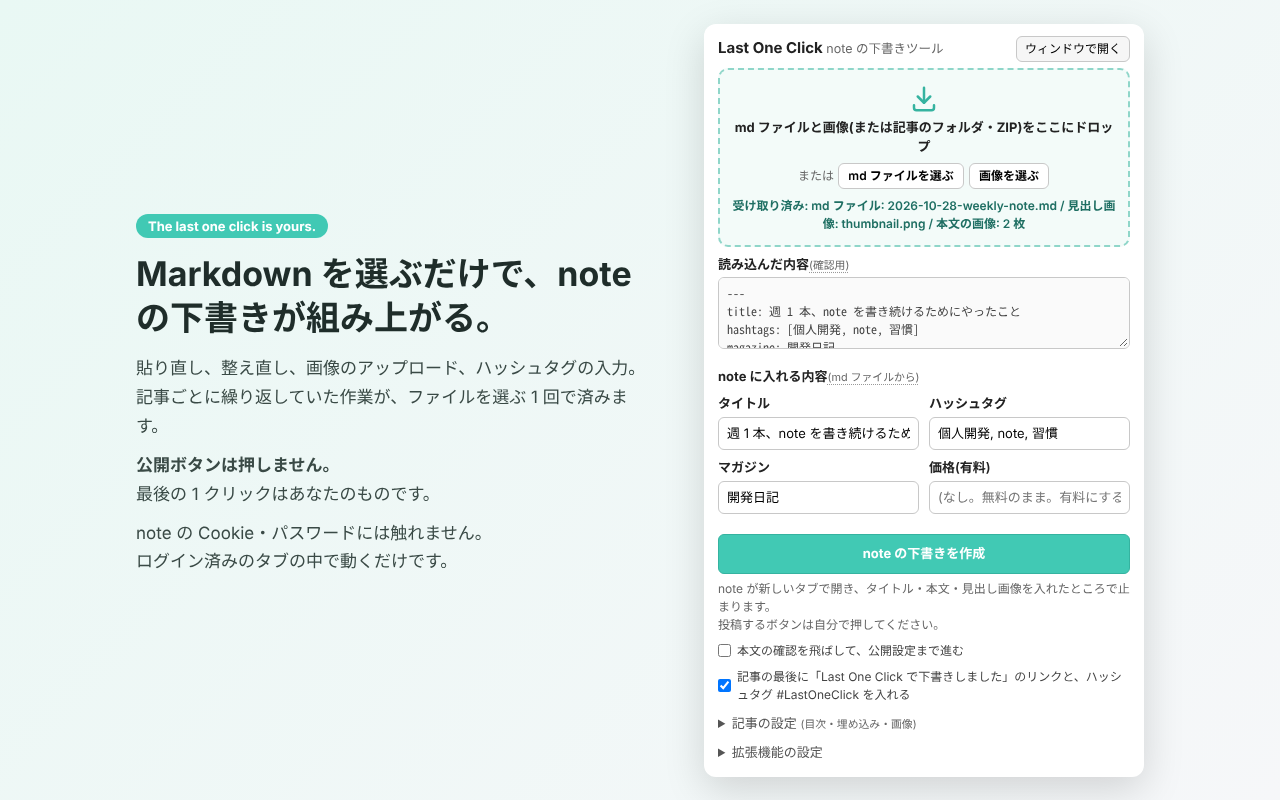
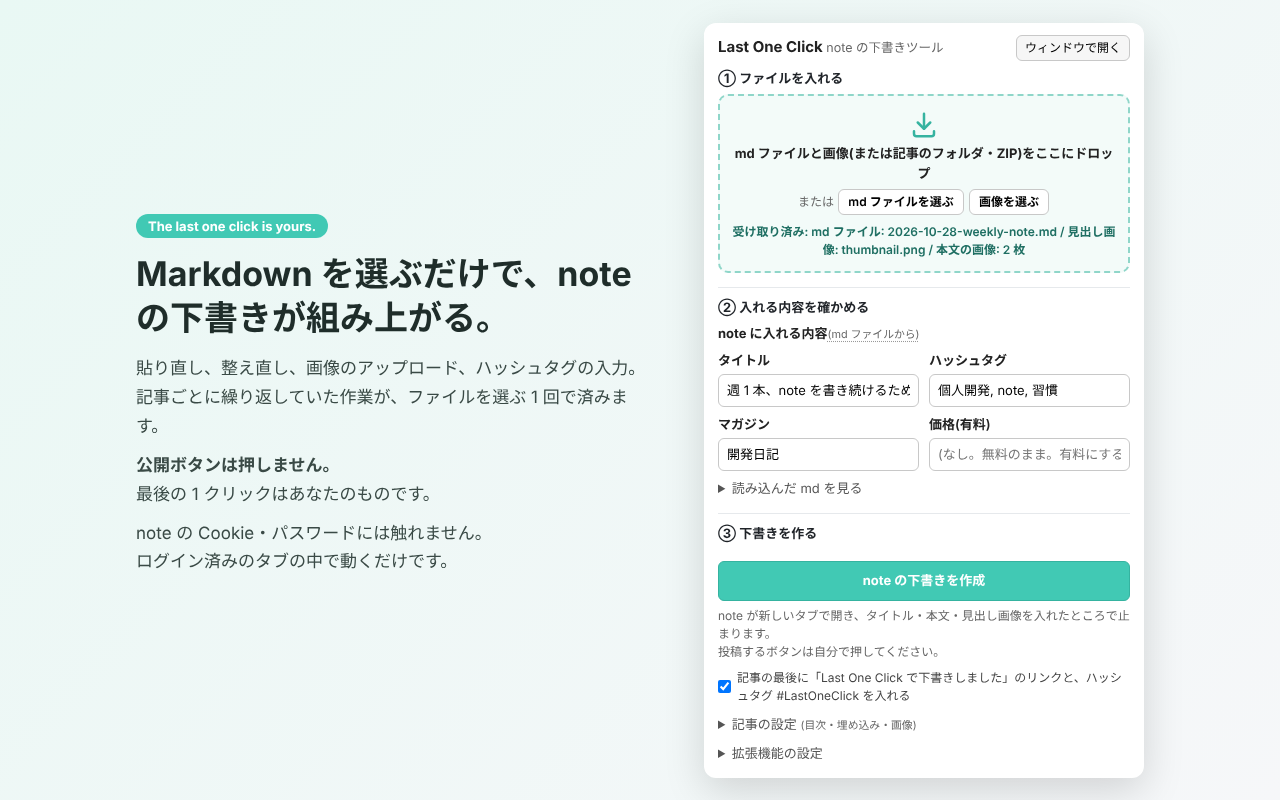
feat(popup): 手順の 3 つに分けて並べ直す(#140)
① ファイルを入れる ② 入れる内容を確かめる ③ 下書きを作る の見出しで分けた。
- GitHub から読み込む(上級者向け)は ① の中に置いた
- 読み込んだ内容(md の全文)は「読み込んだ md を見る」にたたんだ(上級者向けでは開いておく)
- 「本文の確認を飛ばして、公開設定まで進む」は「記事の設定」の中に移し、オンなら見出しの横に出す
- 「Last One Click で下書きしました」のチェックは、たたまずに外に出したまま(#53 の決まり)
機能・初期値・覚えている設定・要素の id は変えていない。ストアの画像を作り直した。

Claude-Session: https://claude.ai/code/session_013Cqe6jnYd5JrgB5Mzm7x5o

diff --git a/extension/src/popup.html b/extension/src/popup.html
@@ -17,6 +17,7 @@
     <button id="extra-site-enable" type="button" class="small">使えるようにする</button>
   </div>
   <p id="status-extra-site-offer" class="status" hidden></p>
+  <h2 class="step first">① ファイルを入れる</h2>
   <div id="dropzone" class="dropzone">
     <svg class="dz-icon" viewBox="0 0 24 24" fill="none" stroke="currentColor" stroke-width="2" stroke-linecap="round" stroke-linejoin="round" aria-hidden="true"><path d="M12 3v12"/><path d="m7 10 5 5 5-5"/><path d="M4 17v2a2 2 0 0 0 2 2h12a2 2 0 0 0 2-2v-2"/></svg>
     <p class="dz-title">md ファイルと画像(または記事のフォルダ・ZIP)をここにドロップ</p>
@@ -30,17 +31,6 @@
   <input id="markdown-file" type="file" accept=".md,.markdown,.txt,.zip,text/markdown,text/plain,application/zip" hidden>
   <input id="thumbnail" type="file" accept="image/*" hidden>
 
-  <div id="markdown-box" hidden>
-    <label for="markdown">読み込んだ内容<small id="markdown-note" class="hint-inline tip" title="確認用です。直すときは md ファイルか、note のエディタで直してください。">(確認用)</small></label>
-    <textarea id="markdown" readonly placeholder="---
-title: 記事タイトル
-hashtags: [AI, 個人開発]
-magazine: マガジン名
----
-
-## 本文はここから"></textarea>
-  </div>
-
   <div id="advanced-github" hidden>
     <details id="github-fold">
       <summary>GitHub から読み込む</summary>
@@ -52,6 +42,8 @@ magazine: マガジン名
     </details>
   </div>
 
+  <div id="step-check">
+  <h2 class="step">② 入れる内容を確かめる</h2>
   <div id="fields" hidden>
     <p class="fields-head">note に入れる内容<small class="hint-inline tip" title="md ファイルから読み取った値です。直したければここで直せます。空にすると「なし」になります。">(md ファイルから)</small></p>
     <div class="grid">
@@ -62,6 +54,22 @@ magazine: マガジン名
     </div>
   </div>
 
+  <div id="markdown-box" hidden>
+    <details id="markdown-fold">
+      <summary>読み込んだ md を見る</summary>
+      <label for="markdown">読み込んだ内容<small id="markdown-note" class="hint-inline tip" title="確認用です。直すときは md ファイルか、note のエディタで直してください。">(確認用)</small></label>
+    <textarea id="markdown" readonly placeholder="---
+title: 記事タイトル
+hashtags: [AI, 個人開発]
+magazine: マガジン名
+---
+
+## 本文はここから"></textarea>
+    </details>
+  </div>
+  </div>
+
+  <h2 class="step">③ 下書きを作る</h2>
   <div class="accounts">
     <p id="account" class="account" hidden></p>
     <p id="extra-site-account" class="account" hidden></p>
@@ -70,13 +78,13 @@ magazine: マガジン名
   <button id="submit" type="button" class="primary">note の下書きを作成</button>
   <p id="status" class="status" hidden></p>
   <p class="hint">note が新しいタブで開き、タイトル・本文・見出し画像を入れたところで止まります。<br>投稿するボタンは自分で押してください。</p>
-  <label class="check hint-check tip" title="入れると、ハッシュタグとマガジンまで一気に入れて止まります。note の公開設定を「キャンセル」で閉じるとハッシュタグとマガジンは消えるので、本文を先に確かめたいときは外しておいてください。"><input id="skip-review" type="checkbox">本文の確認を飛ばして、公開設定まで進む</label>
   <label class="check hint-check tip" title="入れると、本文の最後に区切り線と「この記事は、Last One Click で下書きしました。」の 1 行(ストアへのリンク付き)を入れ、ハッシュタグに #LastOneClick を足します。どちらも下書きと公開設定に入るので、公開する前に note の画面で確かめられます。"><input id="credit-link" type="checkbox" checked>記事の最後に「Last One Click で下書きしました」のリンクと、ハッシュタグ #LastOneClick を入れる</label>
   <details id="article-options" class="article-options">
     <summary>記事の設定 <small id="article-options-on" class="hint-inline"></small></summary>
     <label class="check hint-check tip" title="入れると、本文の先頭に note の目次を入れます。目次は本文の見出し(## と ###)から note が作ります。見出しが無い記事には入れません。"><input id="insert-toc" type="checkbox" checked>記事の先頭に目次を入れる</label>
     <label class="check hint-check tip" title="入れると、本文の中で URL だけが書かれた行を、note の埋め込み(カード)にします。文の中のリンクはそのままです。"><input id="embed-urls" type="checkbox" checked>URL だけの行を埋め込みにする</label>
     <label class="check hint-check tip" title="入れると、md の ![説明](image1.png) のようにファイル名で書いた画像を、本文のその位置に入れます。GitHub から読み込んだときは記事と同じフォルダから、手元の md なら一緒にドロップした画像(記事のフォルダ・ZIP の中の画像)から取ります。1 記事 20 枚まで。"><input id="insert-images" type="checkbox" checked>本文の画像を入れる</label>
+    <label class="check hint-check tip" title="入れると、ハッシュタグとマガジンまで一気に入れて止まります。note の公開設定を「キャンセル」で閉じるとハッシュタグとマガジンは消えるので、本文を先に確かめたいときは外しておいてください。"><input id="skip-review" type="checkbox">本文の確認を飛ばして、公開設定まで進む</label>
     <label id="extra-site-row" class="check hint-check tip" title="切ると、library.libecity.com への許可を外します。また使うときは、library.libecity.com のページを開いてツールバーのアイコンを押してください。" hidden><input id="extra-site-toggle" type="checkbox" checked>追加の対応先(library.libecity.com)</label>
     <p id="status-extra-site-toggle" class="status" hidden></p>
   </details>

diff --git a/extension/src/popup.ts b/extension/src/popup.ts
@@ -179,9 +179,14 @@ chrome.storage.local.get([STORAGE.selectorsUrl, STORAGE.githubToken, STORAGE.adv
 });
 // 「記事の設定」はたたんでおき、見出しの横にオンになっているものを出す
 function showArticleOptions() {
-  $("article-options-on").textContent = articleOptionsLabel({ toc: insertTocEl.checked, embed: embedUrlsEl.checked, images: insertImagesEl.checked });
+  $("article-options-on").textContent = articleOptionsLabel({
+    toc: insertTocEl.checked,
+    embed: embedUrlsEl.checked,
+    images: insertImagesEl.checked,
+    skipReview: skipReviewEl.checked,
+  });
 }
-for (const el of [insertTocEl, embedUrlsEl, insertImagesEl]) el.addEventListener("change", showArticleOptions);
+for (const el of [insertTocEl, embedUrlsEl, insertImagesEl, skipReviewEl]) el.addEventListener("change", showArticleOptions);
 // 「本文の確認を飛ばして、公開設定まで進む」は次回も同じにする
 skipReviewEl.addEventListener("change", () => chrome.storage.local.set({ [STORAGE.skipBodyReview]: skipReviewEl.checked }));
 // 「記事の先頭に目次を入れる」も次回も同じにする
@@ -428,6 +433,8 @@ function applyAdvanced(on: boolean) {
   // 上級者向けでは textarea を編集(貼り付け)できる。普段はファイルの中身の確認用
   markdownEl.readOnly = !on;
   markdownBoxEl.hidden = !on && !markdownEl.value;
+  // 上級者向けでは貼り付けに使うので、「読み込んだ md を見る」を開いておく。普段はたたむ(確認のためだけの欄なので)
+  $<HTMLDetailsElement>("markdown-fold").open = on;
   $("markdown-note").textContent = on ? "(編集・貼り付け可)" : "(確認用)";
 }
 advancedToggle.addEventListener("change", async () => {

diff --git a/extension/src/popup.css b/extension/src/popup.css
@@ -1,6 +1,14 @@
 :root { font: 13px/1.5 system-ui, sans-serif; color: #222; }
 body { width: 420px; margin: 0; padding: 12px 14px 14px; box-sizing: border-box; }
 h1 { font-size: 15px; margin: 0; }
+/* 手順の見出し(① ファイルを入れる ② 入れる内容を確かめる ③ 下書きを作る)。上から順に読めば何をするか分かるように */
+.step { font-size: 13px; margin: 14px 0 6px; padding-top: 10px; border-top: 1px solid #e6e9ec; color: #1f2328; }
+.step.first { margin-top: 8px; padding-top: 0; border-top: 0; }
+/* ② は、読み込んだ内容が出るまで見出しごと出さない */
+#step-check:not(:has(#fields:not([hidden]), #markdown-box:not([hidden]))) { display: none; }
+#step-check .fields-head { margin-top: 0; }
+#markdown-fold { margin-top: 8px; }
+#markdown-fold label { margin-top: 6px; }
 .head { display: flex; align-items: center; justify-content: space-between; gap: 8px; margin-bottom: 6px; }
 button.small { padding: 3px 8px; font-size: 12px; }
 body.window { width: auto; max-width: 560px; margin: 0 auto; }

diff --git a/shared/article-options.ts b/shared/article-options.ts
@@ -1,10 +1,10 @@
 // ポップアップの「記事の設定」(たたんだ所)の見出しの横に、いまオンになっているものを短く出す。
 // たたんだままでも、何が入るかが分かるようにする。
 
-export type ArticleOptions = { toc: boolean; embed: boolean; images?: boolean };
+export type ArticleOptions = { toc: boolean; embed: boolean; images?: boolean; skipReview?: boolean };
 
-/** 例: 「(目次・埋め込み・画像)」。全部オフなら「(なし)」 */
+/** 例: 「(目次・埋め込み・画像・公開設定まで進む)」。全部オフなら「(なし)」 */
 export function articleOptionsLabel(o: ArticleOptions): string {
-  const on = [o.toc && "目次", o.embed && "埋め込み", o.images && "画像"].filter(Boolean);
+  const on = [o.toc && "目次", o.embed && "埋め込み", o.images && "画像", o.skipReview && "公開設定まで進む"].filter(Boolean);
   return `(${on.length ? on.join("・") : "なし"})`;
 }

diff --git a/shared/article-options.test.ts b/shared/article-options.test.ts
@@ -7,6 +7,7 @@ describe("articleOptionsLabel", () => {
     assert.equal(articleOptionsLabel({ toc: true, embed: true }), "(目次・埋め込み)");
     assert.equal(articleOptionsLabel({ toc: false, embed: true }), "(埋め込み)");
     assert.equal(articleOptionsLabel({ toc: true, embed: true, images: true }), "(目次・埋め込み・画像)");
+    assert.equal(articleOptionsLabel({ toc: false, embed: false, images: true, skipReview: true }), "(画像・公開設定まで進む)");
   });
   it("全部オフなら「なし」", () => {
     assert.equal(articleOptionsLabel({ toc: false, embed: false }), "(なし)");

diff --git a/docs/releases/next.md b/docs/releases/next.md
@@ -15,6 +15,7 @@
 - ポップアップの知らせ(成功・エラー)を、押したボタンのすぐそばに出すようにした。「note の下書きを作成」はボタンのすぐ下、md ファイルのドロップ・選択はドロップの枠の下、GitHub の「読み込む」・設定の「保存」・診断の「DOM 情報を取得」「コピー」はそれぞれのボタンの下に出る。知らせの文は変えていない
 - note の編集画面のバナーの見出しを「Last One Click for note」にした(どのサイト向けの知らせかが分かるように。追加の対応先のページの知らせは「Last One Click for (追加の対応先のドメイン)」)
 - ポップアップのログイン中のアカウントの見出しを「ログイン中:」から「note.com:」にした。開発用のビルドで追加の対応先のアカウントも読めたときは、その下に「(ドメイン): [アイコン] 名前」を並べ、入れる先にかかわらず両方を出す(ドメインの列の幅をそろえる)
+- ポップアップを、手順の 3 つ(① ファイルを入れる ② 入れる内容を確かめる ③ 下書きを作る)の見出しで分けて並べ直した。「読み込んだ内容」(md の全文)は「読み込んだ md を見る」の中にたたみ、「本文の確認を飛ばして、公開設定まで進む」のチェックは「記事の設定」の中に移した(オンのときは見出しの横に「公開設定まで進む」と出る)。機能・初期値・覚えている設定は変えていない
 
 ## 変えていないもの
 
